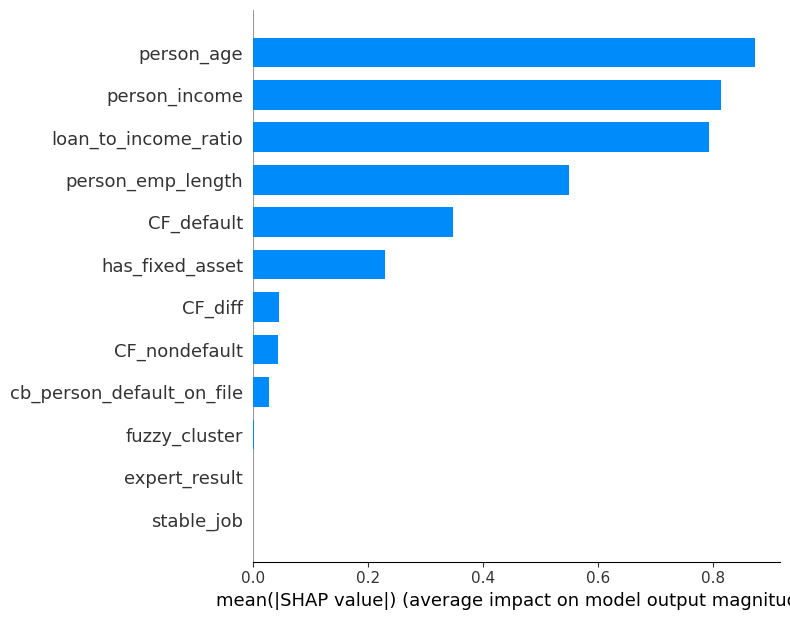
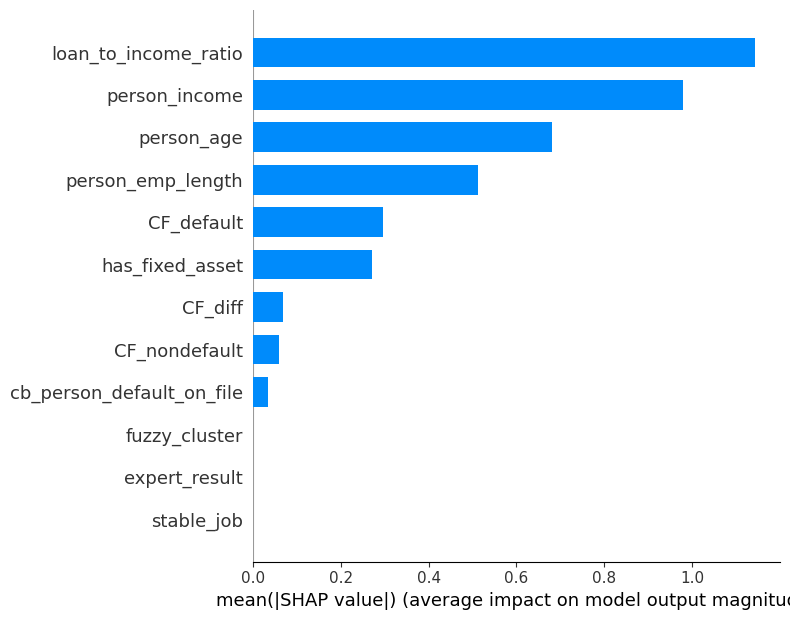
Fix data leakage: split before scaling and SMOTE
SMOTE and the scaler were fitted on the full dataset before the train/test
split, so synthetic copies of training rows ended up in the test set and
inflated the scores (ROC-AUC 0.955). The data is now split first (stratified),
and the scaler and SMOTE are fitted on the training set only.

- Apply the fix in both the notebook and src/ubmager_pipeline.py
- Re-run the notebook; honest results: XGBoost ROC-AUC 0.861, ensemble F1 0.632
- Update README results, SHAP description, pipeline diagram and next steps

diff --git a/src/ubmager_pipeline.py b/src/ubmager_pipeline.py
@@ -84,13 +84,17 @@ features = [
 X = df[features]
 y = df['loan_status']
 
-# SCALING + SMOTE
-scaler = MinMaxScaler()
-X_scaled = pd.DataFrame(scaler.fit_transform(X), columns=X.columns)
-X_res, y_res = SMOTE(random_state=42).fit_resample(X_scaled, y)
+# SPLIT DATA FIRST (70% TRAIN & 30% TEST, STRATIFIED) TO AVOID DATA LEAKAGE
+X_train_raw, X_test_raw, y_train_raw, y_test = train_test_split(
+    X, y, test_size=0.3, stratify=y, random_state=42)
 
-# SPLIT DATA (70% TRAIN & 30% TEST)
-X_train, X_test, y_train, y_test = train_test_split(X_res, y_res, test_size=0.3, random_state=42)
+# SCALING (FIT ON TRAIN ONLY)
+scaler = MinMaxScaler()
+X_train_scaled = pd.DataFrame(scaler.fit_transform(X_train_raw), columns=X.columns)
+X_test = pd.DataFrame(scaler.transform(X_test_raw), columns=X.columns)
+
+# SMOTE ON TRAINING DATA ONLY (TEST SET KEEPS THE REAL CLASS BALANCE)
+X_train, y_train = SMOTE(random_state=42).fit_resample(X_train_scaled, y_train_raw)
 
 # DEFINE MODEL (ML)
 xgb = XGBClassifier(eval_metric='logloss', random_state=42)

diff --git a/README.md b/README.md
@@ -22,7 +22,7 @@ Lenders need to know which applicants are likely to default before approving a l
 - **Expert system (Certainty Factor).** Encodes credit-analyst rules, such as low income combined with short employment, or a prior default without fixed assets, into combined confidence scores for *default* and *non-default*.
 - **Fuzzy C-Means clustering.** Groups applicants into soft segments by age, income and employment length, so borderline applicants are not forced into a hard category.
 - **Feature engineering.** Adds `stable_job`, `has_fixed_asset` and `loan_to_income_ratio`.
-- **Class imbalance handling** with SMOTE oversampling.
+- **Leakage-free class balancing.** The data is split first; SMOTE oversampling and scaling are fitted on the training set only, so the test set reflects real applicants.
 - **Model ensemble.** XGBoost, Random Forest and Logistic Regression, combined in a soft-voting classifier.
 - **Explainability.** SHAP feature-importance analysis on the XGBoost model.
 - **Deployable artifact.** The final ensemble is exported as `ubmager_model.pkl` via `joblib`.
@@ -37,7 +37,9 @@ flowchart LR
     C --> E[Feature set]
     D --> E
     B --> E
-    E --> F[MinMax scaling<br/>+ SMOTE]
+    E --> S[Stratified<br/>train/test split]
+    S -->|train 70%| F[MinMax scaling<br/>+ SMOTE]
+    S -->|test 30%, untouched| K
     F --> G[XGBoost]
     F --> H[Random Forest]
     F --> I[Logistic Regression]
@@ -103,18 +105,20 @@ The script prints a classification report and ROC-AUC for each model, shows a SH
 
 ## Results
 
-Evaluated on a 30% hold-out test set (13,461 rows) after SMOTE balancing:
+Evaluated on a stratified 30% hold-out test set of **8,592 real applicants** (21.7% defaults). The scaler and SMOTE never see the test set, so these numbers reflect real-world performance. Precision, recall and F1 refer to the **default** class.
 
 | Model | Accuracy | Precision | Recall | F1-score | ROC-AUC |
 |---|---|---|---|---|---|
-| **XGBoost** | **0.889** | **0.925** | 0.846 | 0.884 | **0.955** |
-| Soft Voting Ensemble | 0.888 | 0.907 | **0.863** | **0.885** | 0.948 |
-| Random Forest | 0.875 | 0.888 | 0.858 | 0.873 | 0.942 |
-| Logistic Regression (baseline) | 0.724 | 0.751 | 0.667 | 0.706 | 0.787 |
+| **XGBoost** | **0.851** | **0.702** | 0.542 | 0.612 | **0.861** |
+| Soft Voting Ensemble | 0.849 | 0.667 | 0.600 | **0.632** | 0.853 |
+| Random Forest | 0.834 | 0.624 | 0.584 | 0.603 | 0.833 |
+| Logistic Regression (baseline) | 0.751 | 0.449 | **0.655** | 0.533 | 0.780 |
 
-The tree-based models clearly outperform the linear baseline. XGBoost has the best ranking quality (ROC-AUC 0.955), while the ensemble catches the most defaults (highest recall).
+- **XGBoost** ranks applicants best (ROC-AUC 0.861) and is the most precise: 70% of the applicants it flags really do default.
+- The **soft-voting ensemble** gives the best balance between catching defaults and avoiding false alarms (highest F1).
+- All tree-based models clearly beat the logistic regression baseline and the 78.3% accuracy of always predicting "no default".
 
-> **Note:** SMOTE is currently applied before the train/test split, so the test set contains synthetic samples and these scores are likely optimistic. See [Future Improvements](#future-improvements).
+> **Methodology note:** an earlier version applied SMOTE before the train/test split, which leaked synthetic copies of training data into the test set and inflated ROC-AUC to 0.955. Splitting first gives the lower but trustworthy scores above.
 
 ### What drives the predictions (SHAP)
 
@@ -122,7 +126,7 @@ The tree-based models clearly outperform the linear baseline. XGBoost has the be
   <img src="images/shap_feature_importance.png" alt="SHAP feature importance for the XGBoost model" width="620">
 </p>
 
-Age, income, loan-to-income ratio and employment length are the strongest drivers. The expert-system score `CF_default` is the fifth most important feature, which shows that the analyst rules add useful signal on top of the raw data.
+Loan-to-income ratio, income, age and employment length are the strongest drivers. The expert-system score `CF_default` is the fifth most important feature, which shows that the analyst rules add useful signal on top of the raw data.
 
 ## Key Insights
 
@@ -139,8 +143,8 @@ Based on the expert rules and model analysis:
 
 ## Future Improvements
 
-- Apply SMOTE **only to the training split** (after `train_test_split`) so that test metrics reflect real-world class balance.
 - Tune hyperparameters with cross-validated search.
+- Tune the decision threshold to trade precision against recall for the lender's risk appetite.
 - Calibrate the certainty-factor rule thresholds against the data.
 - Serve the saved model through a simple API or Streamlit demo.
 
